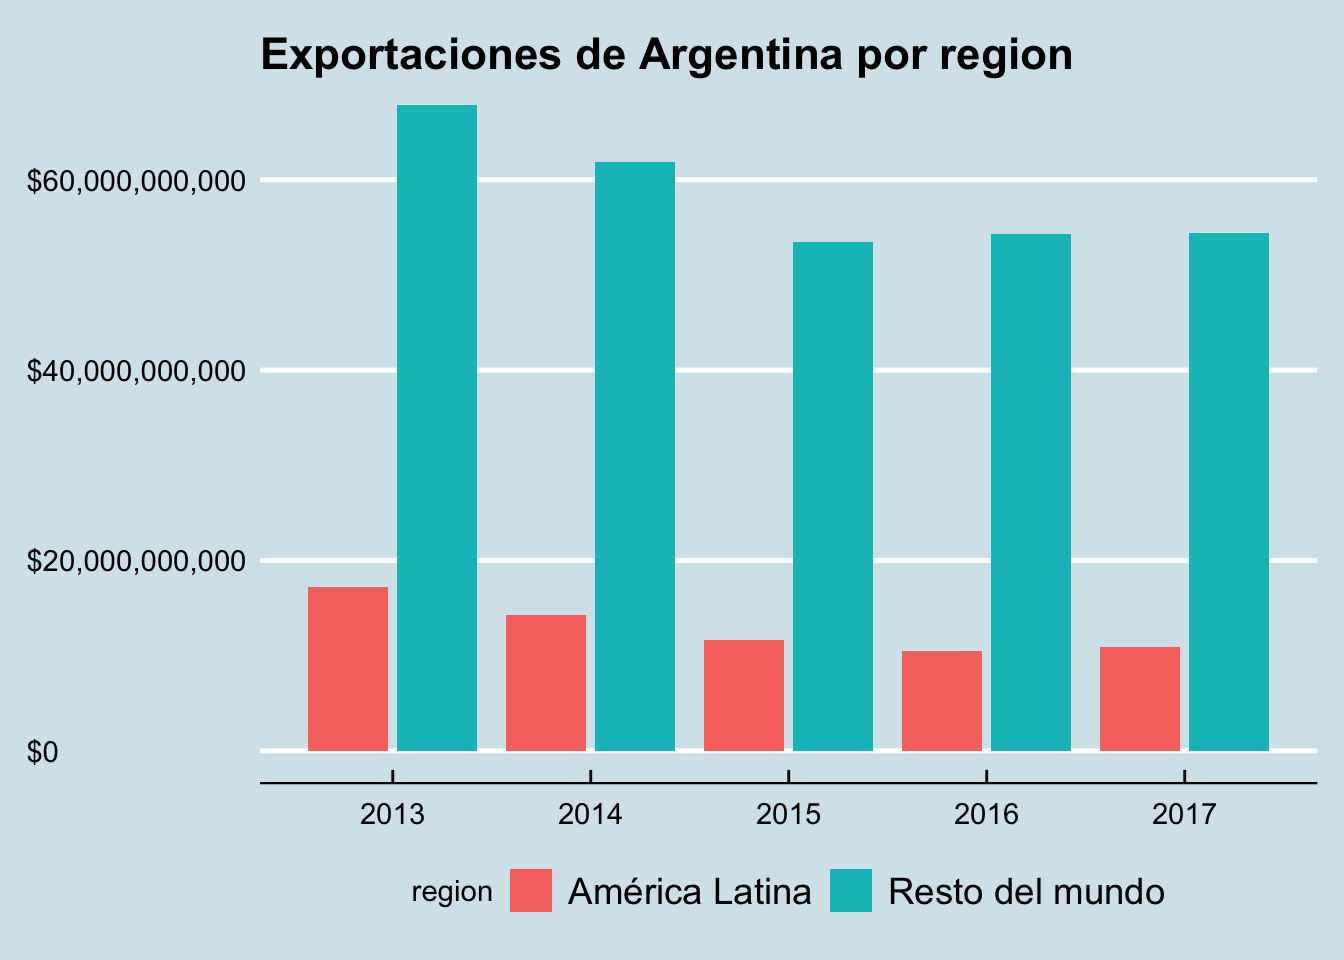
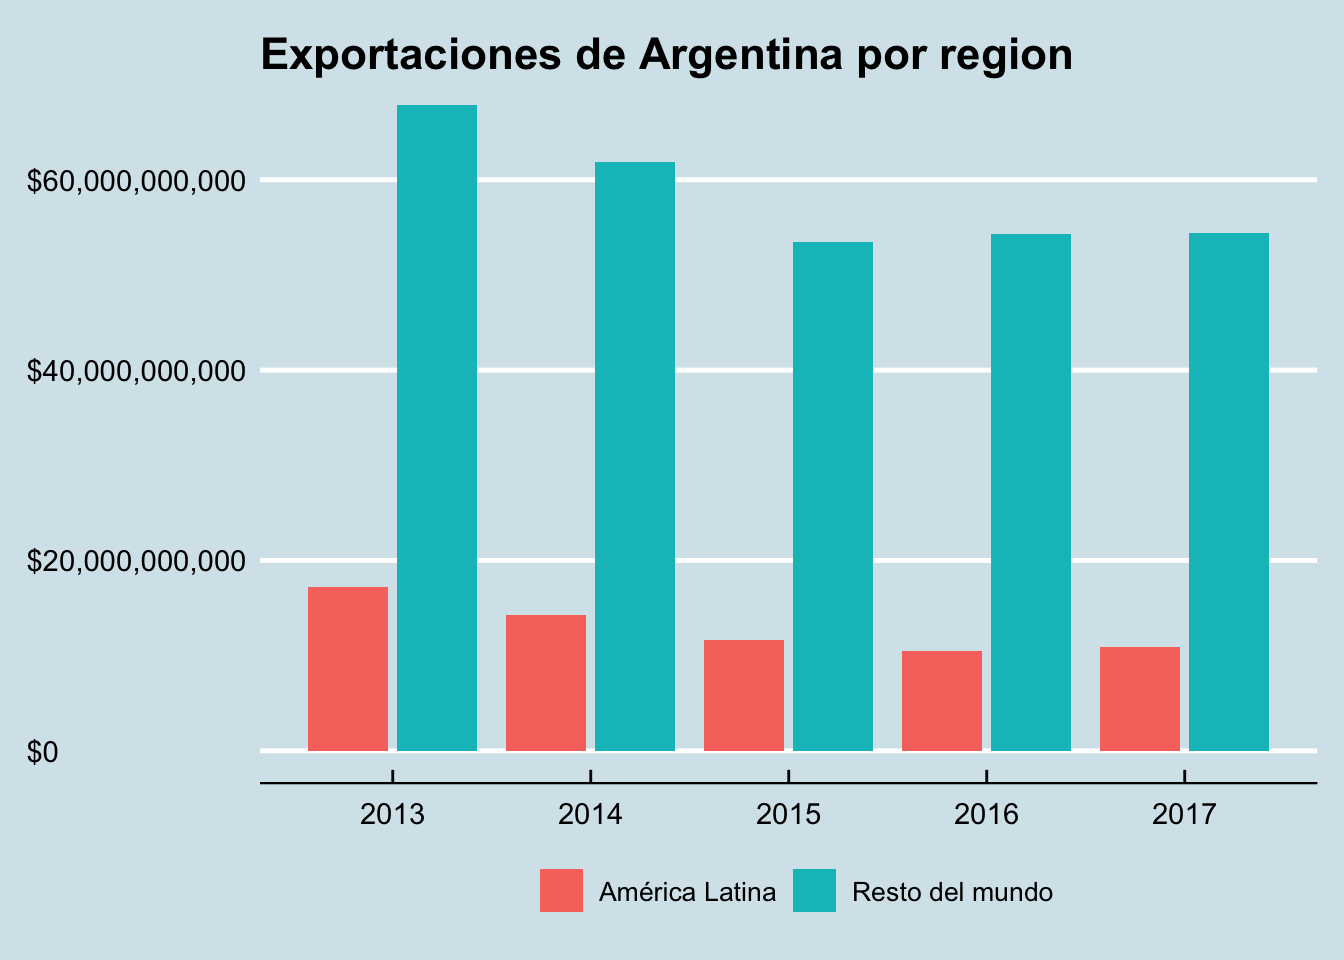
commit changes to new analisis historico

Changed region(s): [[0.3125, 0.9062, 0.875, 0.9688]]

diff --git a/content/post/2020-12-07-datos-historicos/index.html b/content/post/2020-12-07-datos-historicos/index.html
@@ -21,7 +21,8 @@ output:
 library(tradestatistics)
 library(ggplot2)
 library(ggthemes)
-library(scales)</code></pre>
+library(scales)
+library(patchwork)</code></pre>
 </div>
 <div id="los-datos" class="section level2">
 <h2>Los datos</h2>
@@ -43,7 +44,11 @@ I rename the column “reporter_iso” to be able to merge it with the second da
          country_iso,
          country_fullname_english, 
          export_value_usd,
-         import_value_usd) %&gt;%
+         import_value_usd,
+         top_export_product_code,
+         top_import_product_code,
+         top_export_trade_value_usd,
+         top_import_trade_value_usd) %&gt;%
   filter(country_iso != &quot;usa&quot;, # Excluding the U.S.
          country_iso != &quot;can&quot;, # Excluding Canada
          country_iso != &quot;grl&quot;, # Excluding Greenland
@@ -90,10 +95,14 @@ comercio_latam_modificado &lt;- comercio_latam_reducido %&gt;%
   mutate(country_fullname_english = as.factor(country_fullname_english))
 
 comercio_latam_caribbean &lt;- comercio_latam_modificado %&gt;%
-  group_by(year,
+  select(year,
          country_fullname_english,
          export_value_usd,
-         import_value_usd) %&gt;%
+         import_value_usd,
+         top_export_product_code,
+         top_import_product_code,
+         top_export_trade_value_usd,
+         top_import_trade_value_usd) %&gt;%
   mutate(trade = sum(export_value_usd+import_value_usd, na.rm = T)) %&gt;%
   arrange(desc(trade)) %&gt;%
   mutate(country_fullname_english = fct_collapse(country_fullname_english,
@@ -143,26 +152,46 @@ comercio_latam_caribbean &lt;- comercio_latam_modificado %&gt;%
   scale_y_continuous(labels = scales::dollar_format()) +
   labs(title = &quot;Evolución comercial en América Latina&quot;,
        y = NULL,
-       x = NULL) +
+       x = NULL,
+       caption = &quot;Fuerte: Open Trade Statistics&quot;) +
   theme_economist() +
-  theme(legend.position = &quot;bottom&quot;)</code></pre>
+  theme(
+    plot.title = element_text(size = 14),
+    axis.text.x = element_text(size = 9),
+    axis.text.y = element_text(size=9,
+                               hjust = 0),
+    legend.text = element_text(size = 8),
+    legend.title = element_blank(),
+    legend.position = &quot;bottom&quot;)</code></pre>
 <p><img src="index_files/figure-html/comercio%20LATAM%20graph-1.png" width="672" /></p>
 <p>Aún es difícil ver los detalles de los países con menores niveles de comercio, pero queda claro que Mexico y Brasil son los países con mayores flujos comerciales (tanto import como export, ya que tenemos que recordar que esos es la variable que hemos generado).</p>
-<pre class="r"><code>comercio_latam_caribbean1 &lt;- comercio_latam_caribbean %&gt;%
-  filter(country_fullname_english != &quot;Mexico&quot;,
-         country_fullname_english != &quot;Brazil&quot;,
-         country_fullname_english != &quot;Argentina&quot;)
+<pre class="r"><code>producto_latam_import &lt;- tradestatistics::ots_products_shortnames %&gt;%
+  rename(top_import_product_code = &quot;product_code&quot;) 
 
-ggplot(comercio_latam_caribbean1) +  
-  geom_line(aes(year,
-                trade,
-                group = country_fullname_english,
-                color = country_fullname_english)) +
-  labs(title = &quot;Evolución comercial en América Latina&quot;,
-       y = &quot;Total comercio en USD&quot;,
+producto_latam_export &lt;- tradestatistics::ots_products_shortnames %&gt;%
+  rename(top_export_product_code = &quot;product_code&quot;)
+
+import_latam_caribbean &lt;- merge(x = comercio_latam_caribbean, 
+                                y = producto_latam_import, 
+                                by = &#39;top_import_product_code&#39;) %&gt;%
+  select(year,
+         country_fullname_english,
+         top_import_trade_value_usd,
+         product_shortname_english)
+
+export_latam_caribbean &lt;- merge(x = comercio_latam_caribbean, 
+                                y = producto_latam_export, 
+                                by = &#39;top_export_product_code&#39;) %&gt;%
+  select(year,
+         top_export_trade_value_usd,
+         product_shortname_english)</code></pre>
+<pre class="r"><code>ggplot(import_latam_caribbean, aes(x = year, y = top_import_trade_value_usd)) +  
+  geom_point(aes(col = product_shortname_english)) +
+  labs(title = &quot;Importación historico en América Latina&quot;,
+       y = NULL,
        x = NULL) +
   theme_economist() +
   theme(legend.position = &quot;bottom&quot;)</code></pre>
-<p><img src="index_files/figure-html/comercio%20LATAM%20graph2-1.png" width="672" /></p>
+<p><img src="index_files/figure-html/comercio%20LATAM%20product%20import-1.png" width="672" /></p>
 </div>
 </div>

diff --git a/content/post/2020-12-07-exportacion-argentina/index.html b/content/post/2020-12-07-exportacion-argentina/index.html
@@ -82,7 +82,9 @@ comercio_arg &lt;- comercio_mundo %&gt;%
     title = &quot;Exportaciones de Argentina por region&quot;) +
   scale_y_continuous(labels = scales::dollar_format()) +
   theme_economist() +
-  theme(legend.position = &quot;bottom&quot;)</code></pre>
+  theme(legend.position = &quot;bottom&quot;,
+        legend.title = element_blank(),
+        legend.text = element_text(size = 10))</code></pre>
 <p><img src="index_files/figure-html/arg%20export%20grafico-1.png" width="672" /></p>
 <p>Está claro que la mayoría de las exportaciones de Argentina va hacia el resto del mundo.</p>
 <p>No obstante, también sería interesante averiguar qué las categoría de productos que se exporta más desde Argentina:</p>
@@ -121,7 +123,8 @@ export_argentina_2017 &lt;- comercio_mundo %&gt;%
        caption = &quot;Fuente: Open Trade Statistics&quot;) +
   theme_economist() +
   theme(legend.position = &quot;none&quot;)</code></pre>
-<p><img src="index_files/figure-html/arg%20productos%20grafico-1.png" width="672" />
+<p><img src="index_files/figure-html/arg%20productos%20grafico-1.png" width="672" /></p>
+<p>##Sum-up
 Se nota que la mayoría de los productos que exporta Argentina son productos vegetales, alimentos, productos animales o vegetales. Es decir, recursos naturales extraidos de la tierre o productos agriorula (!!!). No soprene mucho, ya que unos de los principales argumentos de los autores de “middel income trap” es que América Latina, en general, son paises que necesitan desarrollar su ventaja competitiva en otros areas que la agricultura y la farmicación de alimentos - areas donde se necesita más habilidades y entonces puede vender los productos más caros en el mercado global.</p>
 </div>
 </div>

diff --git a/content/post/2020-12-07-importacion/index.html b/content/post/2020-12-07-importacion/index.html
@@ -49,8 +49,7 @@ I rename the column “reporter_iso” to be able to merge it with the second da
 <pre class="r"><code>comercio_latam_import &lt;- comercio_latam %&gt;%
   select(country_iso,
          reporter_fullname_english,
-         import_value_usd) %&gt;%
-  drop_na()</code></pre>
+         import_value_usd)</code></pre>
 </div>
 <div id="graficando" class="section level2">
 <h2>Graficando</h2>
@@ -116,7 +115,8 @@ productos_latam_import &lt;- merge(x = comercio_latam,
                     reflow = T) +
   labs(title = &quot;Productos importado en América Latina (2018)&quot;) +
   theme_economist() +
-  theme(legend.position = &quot;none&quot;)
+  theme(plot.title = element_text(size = 14),
+    legend.position = &quot;none&quot;)
 
 producto_2018</code></pre>
 <p><img src="index_files/figure-html/LATAM%20productos%20categori%CC%81a%20graficar-1.png" width="672" /></p>
@@ -185,7 +185,13 @@ producto_2018</code></pre>
     caption = &quot;Fuerte: Open Trade Statistics&quot;) +
   scale_y_continuous(labels = scales::dollar_format()) +
   theme_economist() +
-  theme(legend.position = &quot;bottom&quot;) +
+  theme(
+    plot.title = element_text(size = 14),
+    axis.text.x = element_text(size = 9),
+    axis.text.y = element_text(size=9),
+    legend.text = element_text(size = 8),
+    legend.position = &quot;bottom&quot;) +
+  guides(color=guide_legend(&quot;Categoría de producto&quot;)) +
   coord_flip()</code></pre>
 <p><img src="index_files/figure-html/comercio%20LATAM%20productos%20graficar-1.png" width="672" /></p>
 <p>Entonces…</p>

diff --git a/content/post/2021-01-09-import/index.html b/content/post/2021-01-09-import/index.html
@@ -49,8 +49,7 @@ I rename the column “reporter_iso” to be able to merge it with the second da
 <pre class="r"><code>comercio_latam_import &lt;- comercio_latam %&gt;%
   select(country_iso,
          reporter_fullname_english,
-         import_value_usd) %&gt;%
-  drop_na()</code></pre>
+         import_value_usd)</code></pre>
 </div>
 <div id="graficando" class="section level2">
 <h2>Graficando</h2>
